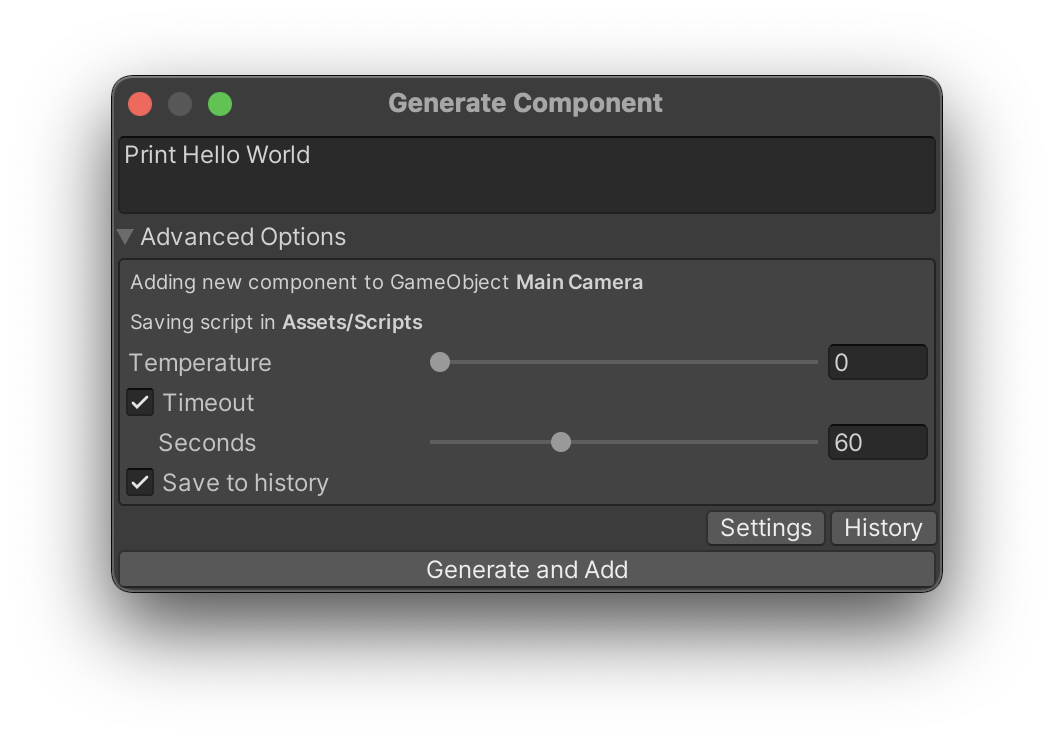
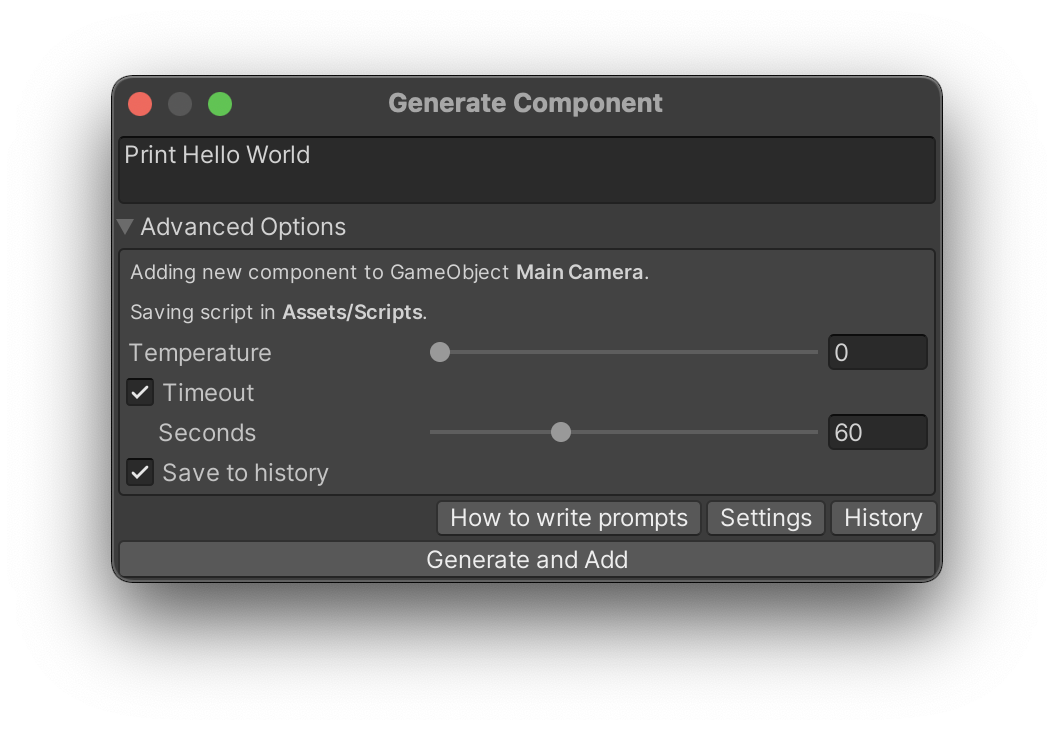
updates

diff --git a/_docs/40.getting-started.md b/_docs/40.getting-started.md
@@ -40,6 +40,7 @@ The prompt window
 - **Advanced Options** — if expanded, reveals the [**Temperature**](/getting-started/#temperature), [**Timeout**](/getting-started/#timeout) and [**History**](/getting-started/#prompt-history) parameters, mirrored from the [_Settings panel_](/getting-started/#chatgpt-script-generator-settings) (which can be found in _Edit_ ▶ _Project Settings_ ▶ _ChatGPT Script Generator_).
 
 - **Save to History** — Enable this option to save the generated script to the history. [_History_](/getting-started/#prompt-history) can be accessed with the "_History_" button in this window or in the [_Settings panel_](/getting-started/#chatgpt-script-generator-settings).
+- **How to write prompts** — Click this button to open the [How To Write Prompts](/how-to-write-prompts/) page in your browser.
 
 ![The prompt window](/assets/images/manual_images/sg-prompt-window-1_2.png){: .image-simple }
 

diff --git a/_docs/50.how-to-write-prompts.md b/_docs/50.how-to-write-prompts.md
@@ -2,6 +2,7 @@
 title: "How To Write Prompts"
 permalink: /how-to-write-prompts/
 excerpt: "How To Write Prompts"
+toc: false
 ---
 
 Here we condensed some useful bits of advice on how to write better prompts for ChatGPT Script Generator with more predicted and fitting outcome. 
